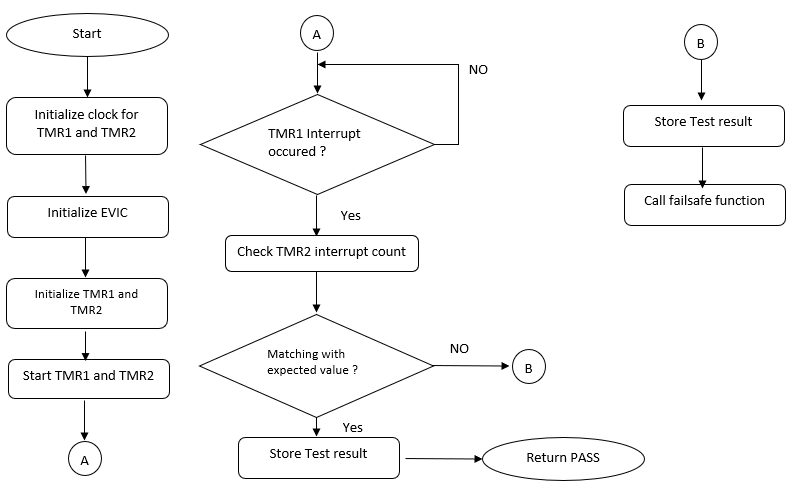
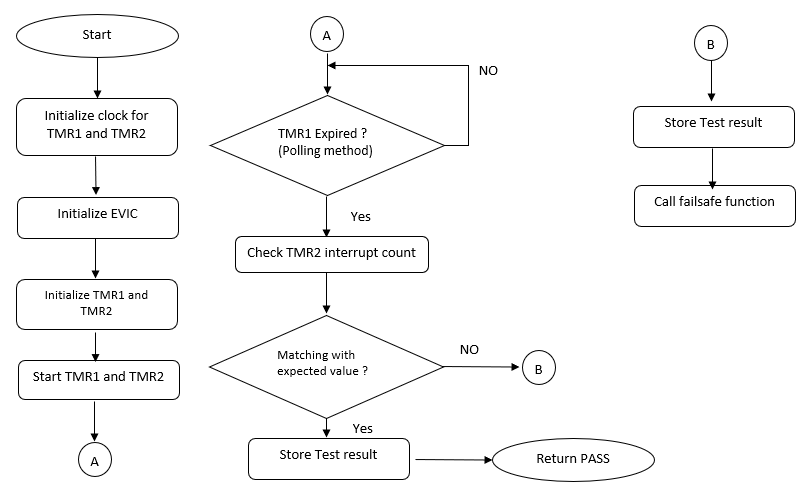
[WSR2-591] Updating Document

diff --git a/docs/pic32mzw1/interface.md b/docs/pic32mzw1/interface.md
@@ -287,23 +287,23 @@ This value must not be modified.
 #define CLASSB_CLOCK_ERROR_PERCENT (5U)
 ```
 
-### CLASSB_CLOCK_RTC_CLK_FREQ
+### CLASSB_CLOCK_TMR1_CLK_FREQ
 
 
 **Summary**
 
-RTC clock frequency.
+TMR1 clock frequency.
 
 **Description**
 
-Defines the RTC clock frequency.
+Defines the TMR1 clock frequency.
 
 **Remarks**
 
 This value must not be modified.
 
 ```c
-#define CLASSB_CLOCK_RTC_CLK_FREQ (32768U)
+#define CLASSB_CLOCK_TMR1_CLK_FREQ (32768U)
 ```
 
 ### CLASSB_CLOCK_TEST_RTC_CYCLES
@@ -338,7 +338,7 @@ Defines the duration of TMR1 clock in nano seconds. This is used to calculate th
 
 **Remarks**
 
-RTC is clocked from 32768 Hz Crystal. One RTC cycle is 30517 nano sec. This value must not be modified.
+TMR1 is clocked from 32768 Hz Crystal. One TMR1 cycle is 30517 nano sec. This value must not be modified.
 
 ```c
 #define CLASSB_CLOCK_TEST_TMR1_RATIO_NS (30517U)
@@ -1213,7 +1213,7 @@ This function executes all startup self-tests inserted into classb.c file by the
 
 **Description**
 
-This function is called from the '_on_bootstrap' function which is the first function to be executed after a reset.
+This function is called from the '_on_bootstrap' function which is executed after a reset, suring startup , before `main()`.
 If none of the self-tests are failed, this function returns 'CLASSB_STARTUP_TEST_PASSED'.
 If any of the startup self-tests are failed, this function will not return. The self-tests for SRAM,
 Clock and Interrupt are considered non-critical since it may be possible to execute a fail-safe function
@@ -1616,7 +1616,7 @@ This self-test can be used during startup as well as run-time. Initial 1kB of th
 **Function**
 
 ```c
-CLASSB_TEST_STATUS CLASSB_ClockTest(uint32_t cpu_clock_freq, uint8_t error_limit, uint16_t clock_test_rtc_cycles, bool running_context);
+CLASSB_TEST_STATUS CLASSB_ClockTest(uint32_t cpu_clock_freq, uint8_t error_limit, uint16_t clock_test_tmr1_cycles, bool running_context);
 ```
 
 **Summary**
@@ -1625,9 +1625,9 @@ This self-test checks whether the CPU clock frequency is within the permissible 
 
 **Description**
 
-This self-test uses RTC and SysTick to measure the CPU clock frequency. The RTC is clocked at 32768 Hz from
-the XOSC32K and CPU clock can be from any other high frequency oscillator. If the CPU clock frequency is within
-specified error limit, it returns PASS. The test duration is defined by the value of rtc_cycles. The RTC is
+This self-test uses TMR1 and SysTick to measure the CPU clock frequency. The TMR1 is clocked at 32768 Hz from
+the external crystal and CPU clock can be from any other high frequency oscillator. If the CPU clock frequency is within
+specified error limit, it returns PASS. The test duration is defined by the value of tmr1_cycles. The TMR1 is
 configured to take clock from an external 32.768 kHz accurate crystal.
 
 **Precondition**
@@ -1640,7 +1640,7 @@ None.
 
 *error_limit* - Permissible error limit (eg; 5 means +-5 percent).
 
-*clock_test_rtc_cycles* - The test duration in terms of RTC cycles.
+*clock_test_tmr1_cycles* - The test duration in terms of TMR1 cycles.
 
 *running_context* - False for startup test. True for run-time test.
 
@@ -1659,7 +1659,7 @@ classb_test_status = CLASSB_ClockTest(200000000, 5, 1638, true);
 **Remarks**
 
 This self-test can be used during startup as well as run-time. This self-test shall be used only if there is
-an external 32.768 kHz accurate crystal connected to the XOSC32K of the microcontroller.
+an external 32.768 kHz accurate crystal connected to the microcontroller.
 
 ### CLASSB_SST_InterruptTest
 
@@ -1678,7 +1678,7 @@ This self-test checks basic functionality of the interrupt handling mechanism.
 This self-test configures the EVIC, the TMR1 and the TMR2 peripheral
 to test the interrupt handling mechanism of the microcontroller. It verifies that at least one interrupt is generated
 and handled properly. This self-test also checks whether the number of interrupts generated are too many within a given
-time period. It reports a PASS if the TMR1 has generated at least one interrupt (Check usinf polling method) and the total number of interrupts
+time period. It reports a PASS if the total number of interrupts
 generated by the TMR2 is less than the specified upper limit and greater than one. 
 
 **Precondition**
@@ -1720,7 +1720,7 @@ This self-test can be used to perform plausibility checks on IO pins.
 **Description**
 
 This self-test checks whether a given IO pin is at the expected logic state. As the exact use of an IO pin is
-decide by the application, it is the responsibility of the caller to configure the IO pin direction and drive
+decided by the application, it is the responsibility of the caller to configure the IO pin direction and drive
 the pin to the expected state before calling this self-test.
 
 **Precondition**

diff --git a/docs/pic32mzw1/usage.md b/docs/pic32mzw1/usage.md
@@ -260,12 +260,12 @@ peripherals to test the interrupt handling mechanism.
 It verifies that at least one interrupt is generated and handled properly.
 This self-test also checks whether the number of interrupts generated are too many within a given time period.
 TMR1 is configured for polling (Without ISR).
-It reports a PASS if the TMR1 has generated at least one interrupt (Checked using polling method) and the total number of interrupts generated
+It reports a PASS if the total number of interrupts generated
 by the TMR2 is greater than one and less than the specified upper limit. The clock used for TMR1 and TMR2 is from the
 Internal peripheral clock .
 The interrupt self-test can be used only at startup.
 
-> **Note** This startup self-test utilizes the interrupts generated by TMR1 (Polling method) and TMR2. For run-time testing of interrupts,
+> **Note** This startup self-test utilizes the interrupts generated by TMR2 and TMR1 with polling method. For run-time testing of interrupts,
 a separate self-test need to be developed.
 
 <figure align="center">
